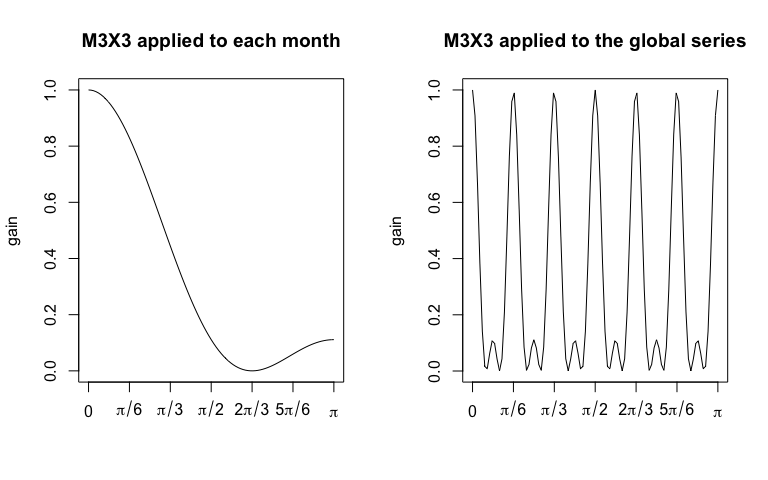
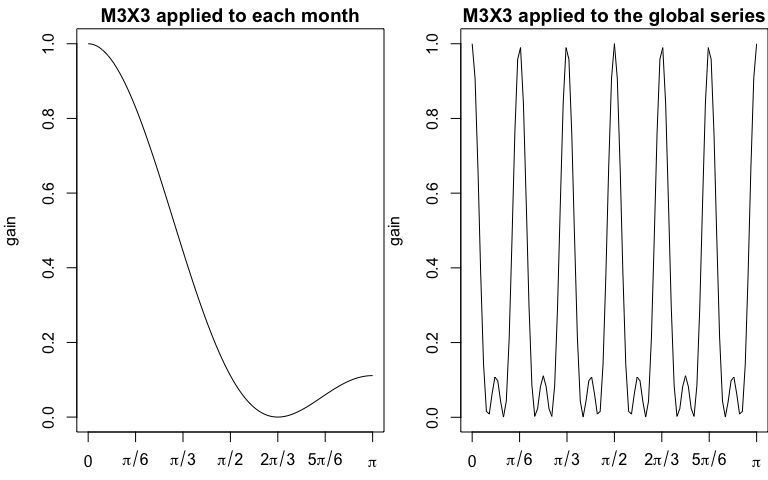
moving_average beginning doc

diff --git a/README.md b/README.md
@@ -28,6 +28,7 @@ or later version is required.
 ``` r
 # Install development version from GitHub
 # install.packages("devtools")
+devtools::install_github("palatej/rjd3toolkit")
 devtools::install_github("palatej/rjdfilters")
 ```
 
@@ -67,7 +68,7 @@ legend("topleft", legend = c("y","Musgrave", "FST", "RKHS"),
 
 The last estimates can also be analysed with the `implicit_forecast`
 function that retreive the implicit forecasts corresponding to the
-asymmetric filters (i.e. : the forecasts needed to have the same
+asymmetric filters (i.e., the forecasts needed to have the same
 end-points estimates but using the symmetric filter).
 
 ``` r
@@ -200,6 +201,9 @@ M3X3_seasonal <- to_seasonal(M3X3, 12)
 # M3X3_seasonal moving average applied to the global series
 M3X3_seasonal
 #> [1] "0,1111 B^24 + 0,2222 B^12 + 0,3333 + 0,2222 F^12 + 0,1111 F^24"
+
+def.par <- par(no.readonly = TRUE)
+par(mai = c(0.5, 0.8, 0.3, 0))
 layout(matrix(c(1,2), nrow = 1))
 plot_gain(M3X3, main = "M3X3 applied to each month")
 plot_gain(M3X3_seasonal, main = "M3X3 applied to the global series")
@@ -208,11 +212,13 @@ plot_gain(M3X3_seasonal, main = "M3X3 applied to the global series")
 <img src="man/figures/README-mm-plots-1.png" style="display: block; margin: auto;" />
 
 ``` r
+par(def.par)
+
 # To apply the moving average
 t <- jasym_filter(y, M2X12)
 si <- y - t
 s <- jasym_filter(si, M3X3_seasonal)
-# or equivalently :
+# or equivalently:
 s_mm <- M3X3_seasonal * (1 - M2X12)
 s <- jasym_filter(y, s_mm)
 ```
